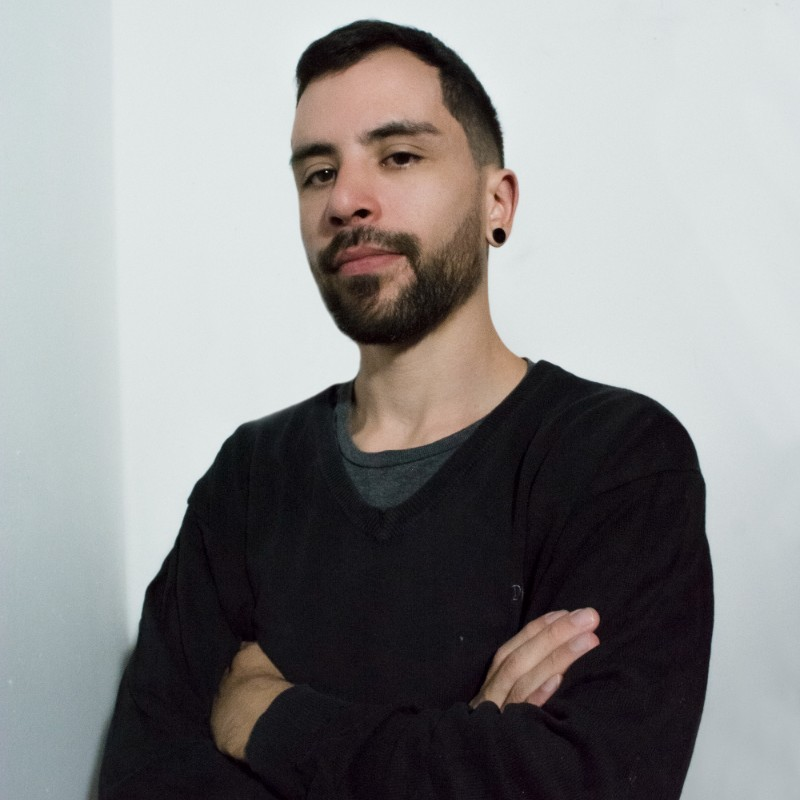
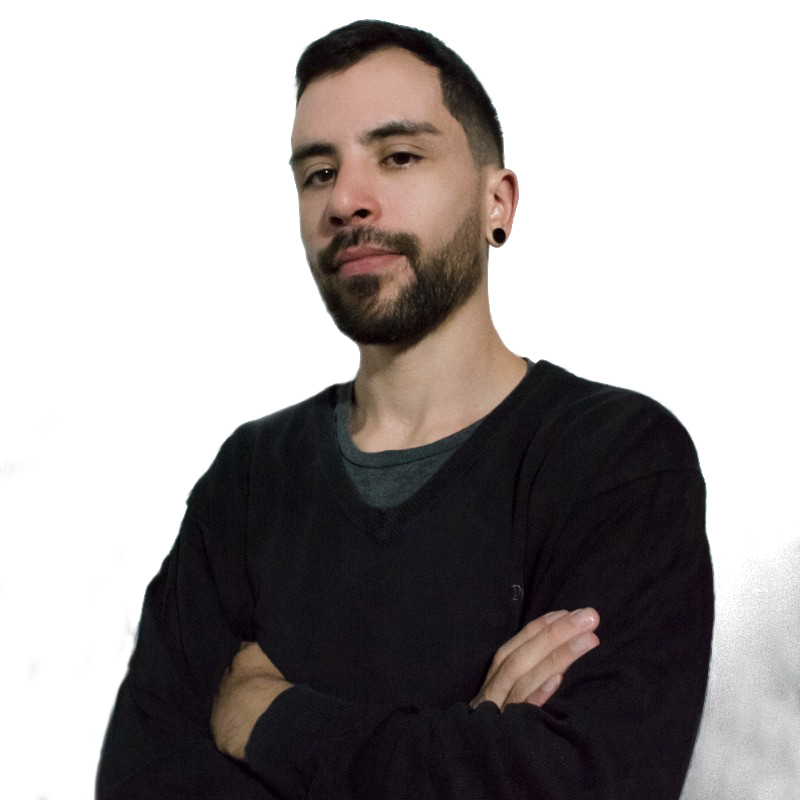
v0.10 | about me

diff --git a/src/views/AboutMe.js b/src/views/AboutMe.js
@@ -2,44 +2,90 @@ import React from 'react'
 
 export const AboutMe = () => {
 
-    const perfil = process.env.PUBLIC_URL + './iconos/perfil.jpg';
+    const perfil = process.env.PUBLIC_URL + './iconos/perfil.png';
 
   return (
 
 
-    <div className='about-me grid grid-cols-3 grid-rows-6  w-full h-full sm:w-5/6 xl:w-2/3 flex sm:h-5/6 sm:rounded-2xl'>
-        <div className='col-span-1 row-span-1'></div>
-        <h2 className='col-span-2 row-span-1 self-center font-bold text-lg'>Acerca de mí</h2>
+    <div className='about-me flex flex-col items-center sm:grid grid-cols-2 grid-rows-7  w-full h-full overflow-y-auto sm:w-5/6 xl:w-2/3 flex sm:h-5/6 sm:rounded-2xl'>
+        <h2 className='my-5 sm:my-0  col-span-2 row-span-2  text-center font-bold text-lg'>Acerca de mí</h2>
 
-        <img src={`${ perfil }`} className='rounded-2xl shadow-md w-100 w-10/12 col-span-1 justify-self-center'  />
-        <div className='col-span-2 flex flex-col items-left'>
-            <p>lorem</p>
 
-            <h4>Skills</h4>
+        <div className='w-100 col-span-1 row-span-4  mx-auto flex flex-col items-center self-start xl:mt-3'>
+            <div className='flex justify-center  backdrop-blur-sm rounded-2xl mt-10  shadow-lg w-9/12 sm:w-10/12 '>
+                <img src={`${ perfil }`} className='w-8/12 items-self-start'  />
+                
+            </div>
+            
+            <p className='w-9/12 sm:w-10/12 mt-5'>lorem ipsum</p>
+        </div>
 
-            <ul className='flex w-4/5  items-center flex-wrap'>
-                <li className='m-1 px-2 py-1 rounded-full bg-gray-100/25 shadow'>Javascript</li>
-                <li className='m-1 px-2 py-1 rounded-full bg-gray-100/25 shadow'>React</li>
-                <li className='m-1 px-2 py-1 rounded-full bg-gray-100/25 shadow'>Node</li>
-                <li className='m-1 px-2 py-1 rounded-full bg-gray-100/25 shadow'>Next.js</li>
-                <li className='m-1 px-2 py-1 rounded-full bg-gray-100/25 shadow'>C++</li>
-                <li className='m-1 px-2 py-1 rounded-full bg-gray-100/25 shadow'>Git</li>
-                <li className='m-1 px-2 py-1 rounded-full bg-gray-100/25 shadow'>Tailwind</li>
+
+
+        <div className='col-span-1 row-span-4 flex flex-col items-center mx-auto w-9/12'>
+
+            <h4 className=' text-center text-lg italic'>Skills</h4>
+
+
+            <ul className='flex items-center flex-wrap my-3 '>
+                <li className='m-1 px-2 py-1 rounded-full bg-gray-100/25 shadow backdrop-blur-sm'>Javascript</li>
+                <li className='m-1 px-2 py-1 rounded-full bg-gray-100/25 shadow backdrop-blur-sm'>React</li>
+                <li className='m-1 px-2 py-1 rounded-full bg-gray-100/25 shadow backdrop-blur-sm'>Next.js</li>
+                <li className='m-1 px-2 py-1 rounded-full bg-gray-100/25 shadow backdrop-blur-sm'>Node</li>
+                <li className='m-1 px-2 py-1 rounded-full bg-gray-100/25 shadow backdrop-blur-sm'>Express.js</li>
+                <li className='m-1 px-2 py-1 rounded-full bg-gray-100/25 shadow backdrop-blur-sm'>C++</li>
+                <li className='m-1 px-2 py-1 rounded-full bg-gray-100/25 shadow backdrop-blur-sm'>Git</li>
+                <li className='m-1 px-2 py-1 rounded-full bg-gray-100/25 shadow backdrop-blur-sm'>MongoDB</li>
+                <li className='m-1 px-2 py-1 rounded-full bg-gray-100/25 shadow backdrop-blur-sm'>Firebase</li>
+                <li className='m-1 px-2 py-1 rounded-full bg-gray-100/25 shadow backdrop-blur-sm'>Socket.io</li>
+                <li className='m-1 px-2 py-1 rounded-full bg-gray-100/25 shadow backdrop-blur-sm'>Sass</li>
+                <li className='m-1 px-2 py-1 rounded-full bg-gray-100/25 shadow backdrop-blur-sm'>Css</li>
+                <li className='m-1 px-2 py-1 rounded-full bg-gray-100/25 shadow backdrop-blur-sm'>Tailwind</li>
+                <li className='m-1 px-2 py-1 rounded-full bg-gray-100/25 shadow backdrop-blur-sm'>Bootstrap</li>
             </ul>
 
-            <div>
+            <div className='exp_educ backdrop-blur rounded-xl shadow-lg p-2 self-start'>
                 <button>Educación</button>
                 <button>Experiencia</button>
 
-                <ul>
-                    <li>Cosa1</li>
-                    <li>Cosa2</li>
-                    <li>Cosa3</li>
+                <ul className='border border-transparent'>
+                    <li className=''>
+                        <p className='text-pink'>2023 - 2025</p>
+                        <p className='font-bold text-wh'>UTN - Universidad Tecnológica Nacional</p>
+                        <p >Técnico Universitario en Sistemas</p>
+                    </li>
+                    <li className=''>
+                        <p className='text-pink'>2020 - 2021</p>
+                        <p className='font-bold text-wh'>UNGS - Universidad Nacional General Sarmiento</p>
+                        <p >Técnico Universitario en Informática</p>
+                    </li>
+                    <li className=''>
+                        <p className='text-pink'>2016 - 2020</p>
+                        <p className='font-bold text-wh'>CONSUDEC</p>
+                        <p >Profesor Superior en Informática</p>
+                    </li>
+                    <li className=''>
+                        <p className='text-pink'>2021 - 2022</p>
+                        <p className='font-bold text-wh'>Coderhouse</p>
+                        <p>Desarrollador Web FrontEnd</p>
+                    </li>
+                    <li className=''>
+                        <p className='text-pink'>2022</p>
+                        <p className='font-bold text-wh'>EducacionIT</p>
+                        <p>Desarrollador backend en Node.js</p>
+                    </li>
+       
                 </ul>
 
-                <button> Descargar cv</button>
             </div>
+
+            <button className='row-span-1 self-start my-5 px-2 py-1 rounded-full bg-gray-100/25 shadow backdrop-blur-sm '> Descargar cv</button>
+
+            {/*Espacio para el header */}
+            <div className='header_space '></div>
         </div>
+
+   
     </div>
   )
 }

diff --git a/src/Post.js b/src/Post.js
@@ -4,7 +4,7 @@ import Slider from './views/Splider'
 export const Post = () => {
 
     const icons = {
-      perfil : './iconos/perfil.jpg',
+      perfil : './iconos/perfil.png',
       user: './iconos/user_w.png',
       heart:'./iconos/heart_w.png',
       message:'./iconos/message_w.png',
@@ -20,13 +20,13 @@ export const Post = () => {
 
 
   return (
-    <div className="post flex flex-col my-4 mx-2 mb-5 border-b border-gray-100/10 drop-shadow pb-2">
+    <div className="post flex flex-col my-4 mx-2 mb-4 border-b border-gray-100/10 drop-shadow pb-5">
         {/* <!--POST HEADER--> */}
         <div className="post__header grid grid-cols-3  ">
         
             <div	className="post__header-profile col-span-2  flex ">
-            <img src={`${ icons.perfil }`} alt="Renzo Marangon" className="mr-2 rounded-full w-12 self-center drop-shadow-md" />
-            <p className="self-center w-100 sm:w-40 font-bold text-base sm:text-sm ">Renzo Marangon</p>
+            <img src={`${ icons.perfil }`} alt="Renzo Marangon" className="mr-2 rounded-full w-14 self-center drop-shadow-md shadow-lg border border-gray-700/5" />
+            <p className="self-center ml-3 sm:w-40 font-bold text-base sm:text-sm ">Renzo Marangon</p>
             </div>       
             <div className="post__header-time flex items-center  justify-self-end sm:mr-2">
                 <p>6 min.</p>

diff --git a/public/style.css b/public/style.css
@@ -60,3 +60,52 @@ label span {
 .splide--nav {
   margin-top: 1rem;
 }
+
+
+
+.exp_educ ul{
+  position:relative;
+}
+
+.exp_educ ul::before{
+  border-left:2px #fc0e46 solid;
+  width:2px;
+  height:calc( 100% - 55px );
+  content:'';
+  position:absolute;
+  left:0px;
+  top:0px;
+  z-index: -1;
+}
+
+.exp_educ ul li{
+  padding-left: 10px;
+}
+
+.exp_educ li{
+  position: relative;
+  margin: 6px 0
+}
+
+.exp_educ li:before{
+  width: 7px;
+  height:7px;
+  border-radius: 15px;
+  content:'';
+  background-color: #F0446B;
+  left: -3px;
+  top: 8px;
+  position: absolute;
+}
+
+.text-pink{
+  color: #F0446B;
+  font-weight: bold;
+  text-shadow:rgba(190, 0, 0, 0.541) 1px 1px;
+}
+
+.text-wh{
+  color:white;
+  
+  text-shadow:rgba(114, 114, 114, 0.575) 2px 2px;
+}

diff --git a/src/views/Home.js b/src/views/Home.js
@@ -81,7 +81,7 @@ export const Home = () => {
                     <img src={`${icons.image}`} alt="Upload image" className="w-7 sm:w-6 rounded-full " />
                   </button>
                   <button>
-                    <img src={`${icons.gif}`} alt="Gif" className="w-7 sm:w-6 rounded-full " />
+                    <img src={`${icons.gif}`} alt="Gif" className="w-6 sm:w-5  rounded border-2 " />
                   </button>
                   <button>
                     <img src={`${icons.emoji}`} alt="Invitado" className="w-7 sm:w-6 rounded-full " />

diff --git a/src/App.js b/src/App.js
@@ -19,8 +19,8 @@ function App() {
 // console.log(icons.javascript.split('/',3)[2].split('.',2)[0]);
 const [vistas, setVistas ] = useState(
   {
-    home:true,
-    profile:false,
+    home:false,
+    profile:true,
     contact:false,
     likes:false,
     search:false,
